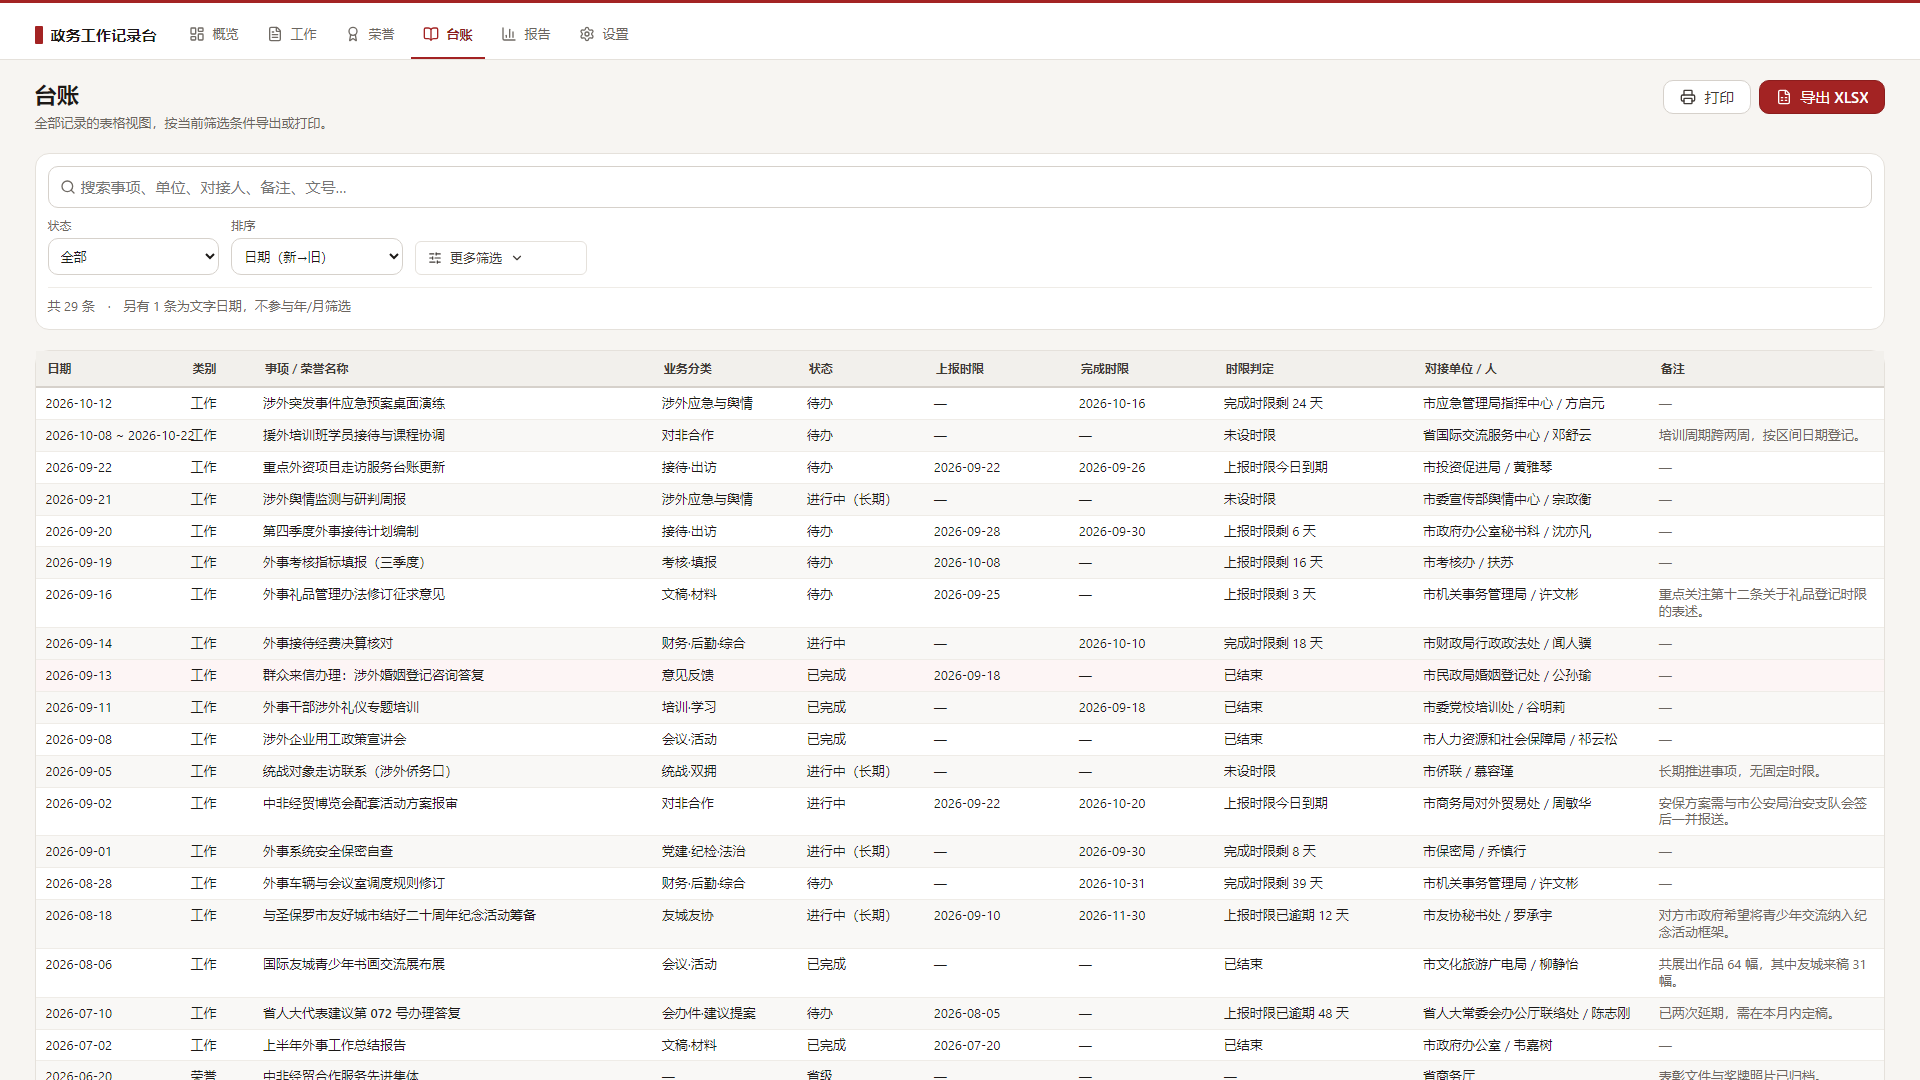
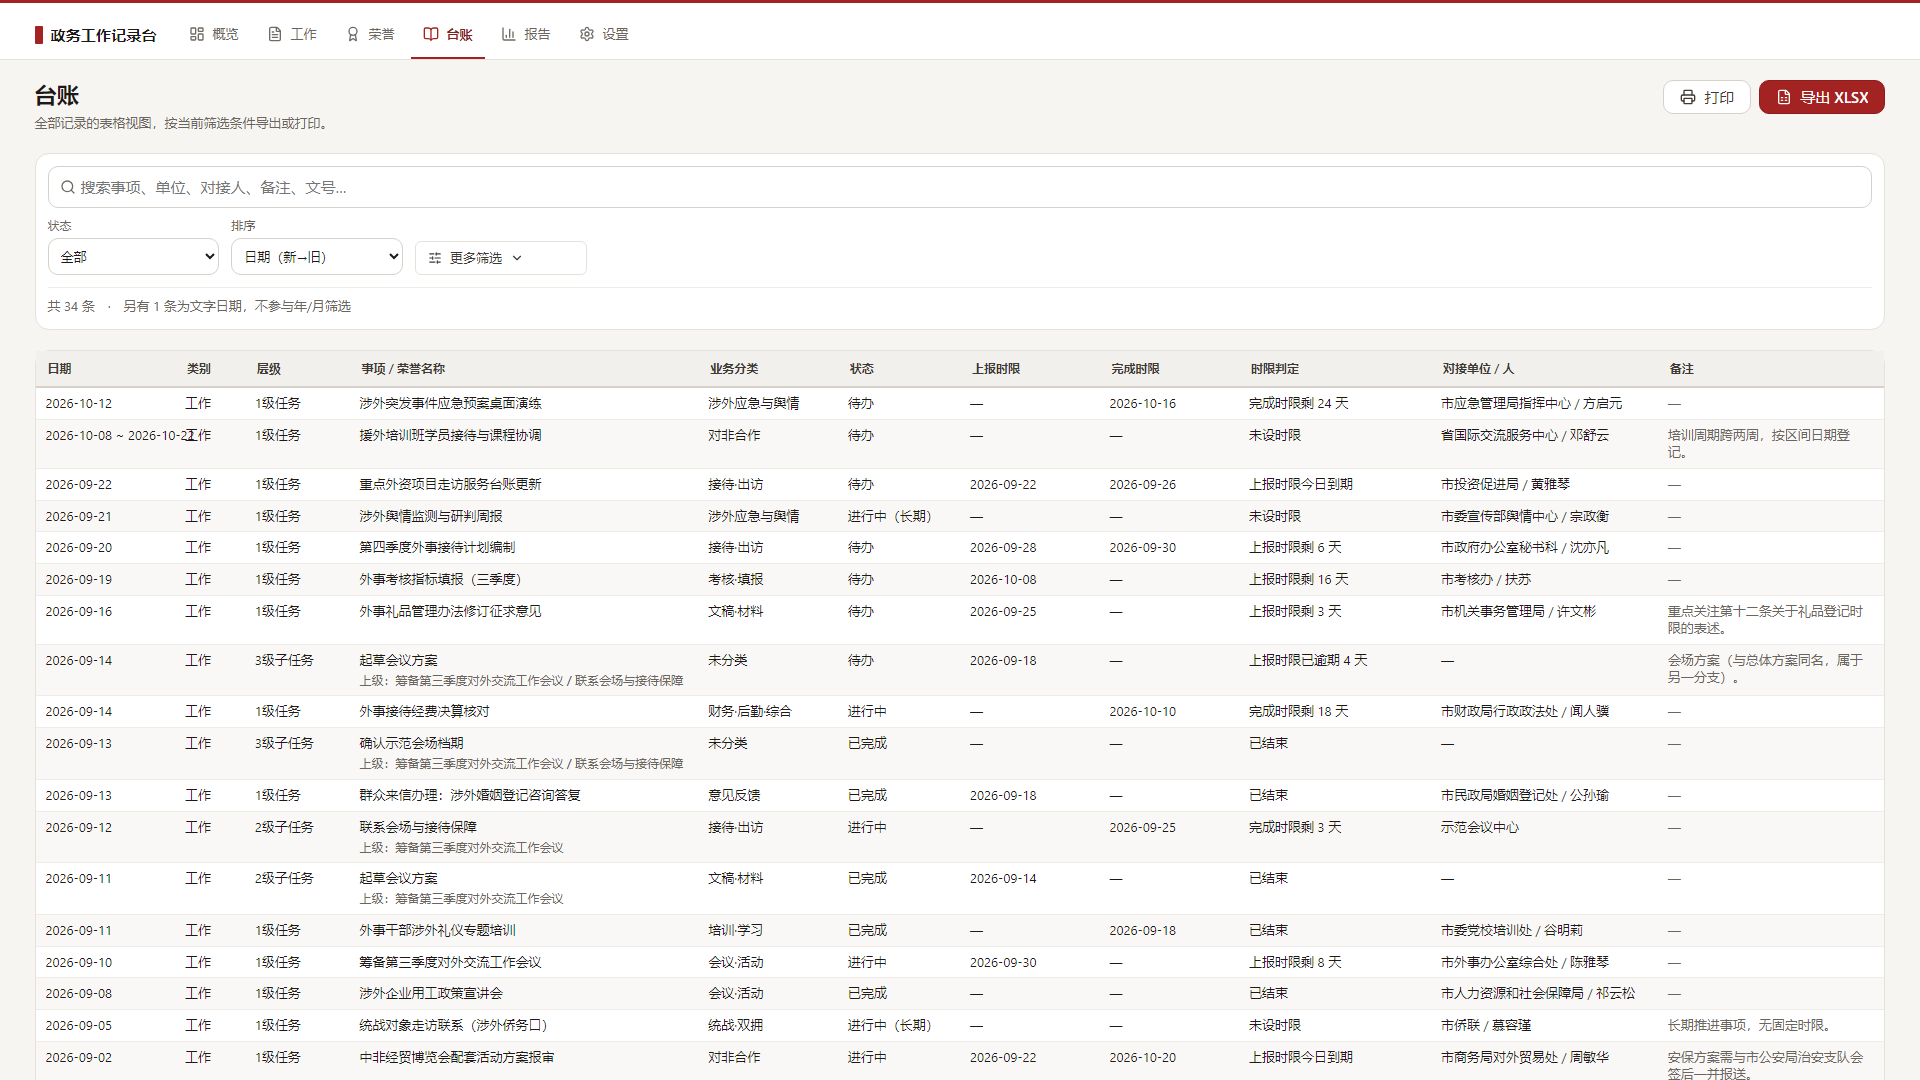
docs(review): refresh review screenshots with the task structure

diff --git a/tests/screenshots/capture.spec.ts b/tests/screenshots/capture.spec.ts
@@ -19,7 +19,8 @@ import { confirmWithPhrase } from '../e2e/helpers';
  *   - **the clock is pinned** to the fixture's `DEMO_NOW`, so overdue / due-today / upcoming states
  *     are fixed rather than depending on the day the capture runs;
  *   - **the data comes from a sealed v3 archive** (`tests/fixtures/demo-dataset.json`), imported
- *     through the application's own canonical-restore path, so it is the same 31 records every time;
+ *     through the application's own canonical-restore path, so it is the same 36 records every time
+ *     (31 until Phase 5 added a three-level task hierarchy);
  *   - **fonts are the system stack** and no animation is in flight, since captures wait for the
  *     network-idle state and an explicit settle.
  *
@@ -132,13 +133,20 @@ test.describe('review screenshots', () => {
       ['1366', 'work', 'work-1366'],
       ['1920', 'work', 'work-1920'],
       ['1440', 'honors', 'honors-1440'],
+      ['1366', 'ledger', 'ledger-1366'],
       ['1920', 'ledger', 'ledger-1920'],
       ['2560', 'ledger', 'ledger-2560'],
+      ['1366', 'reports', 'reports-1366'],
       ['1440', 'reports', 'reports-1440'],
+      ['1920', 'reports', 'reports-1920'],
+      ['1366', 'settings', 'settings-1366'],
       ['1440', 'settings', 'settings-1440'],
+      ['1920', 'settings', 'settings-1920'],
       ['390', 'dashboard', 'dashboard-mobile-390'],
       ['390', 'work', 'work-mobile-390'],
       ['390', 'ledger', 'ledger-mobile-390'],
+      ['390', 'reports', 'reports-mobile-390'],
+      ['390', 'settings', 'settings-mobile-390'],
     ];
 
     for (const [size, route, name] of shots) {
@@ -164,6 +172,33 @@ test.describe('review screenshots', () => {
     await page.getByRole('button', { name: '新增记录' }).first().click();
     await expect(page.getByRole('dialog')).toBeVisible();
     await shoot(page, 'edit-form-1440');
+  });
+
+  test('task structure (Phase 5)', async ({ page }) => {
+    await page.setViewportSize(VIEWPORTS['1366']);
+    await loadDemoData(page, 'work');
+    await page
+      .getByRole('group', { name: '工作视图' })
+      .getByRole('button', { name: '任务结构' })
+      .click();
+    await expect(page.getByRole('list', { name: '任务结构' })).toBeVisible();
+    await shoot(page, 'work-structure-1366');
+
+    await page.setViewportSize(VIEWPORTS['1920']);
+    await shoot(page, 'work-structure-1920');
+
+    await page.setViewportSize(VIEWPORTS['390']);
+    await shoot(page, 'work-structure-mobile-390');
+
+    // A filter that matches only a 3级子任务: its two ancestors appear as labelled context.
+    await page.setViewportSize(VIEWPORTS['1366']);
+    await page.getByRole('searchbox').fill('确认示范会场档期');
+    await shoot(page, 'work-structure-filtered-1366');
+
+    await page.getByRole('searchbox').fill('');
+    await page.getByRole('button', { name: '调整层级：确认示范会场档期' }).click();
+    await expect(page.getByRole('dialog', { name: '调整层级' })).toBeVisible();
+    await shoot(page, 'work-structure-move-1366');
   });
 
   test('filtered-empty state', async ({ page }) => {
